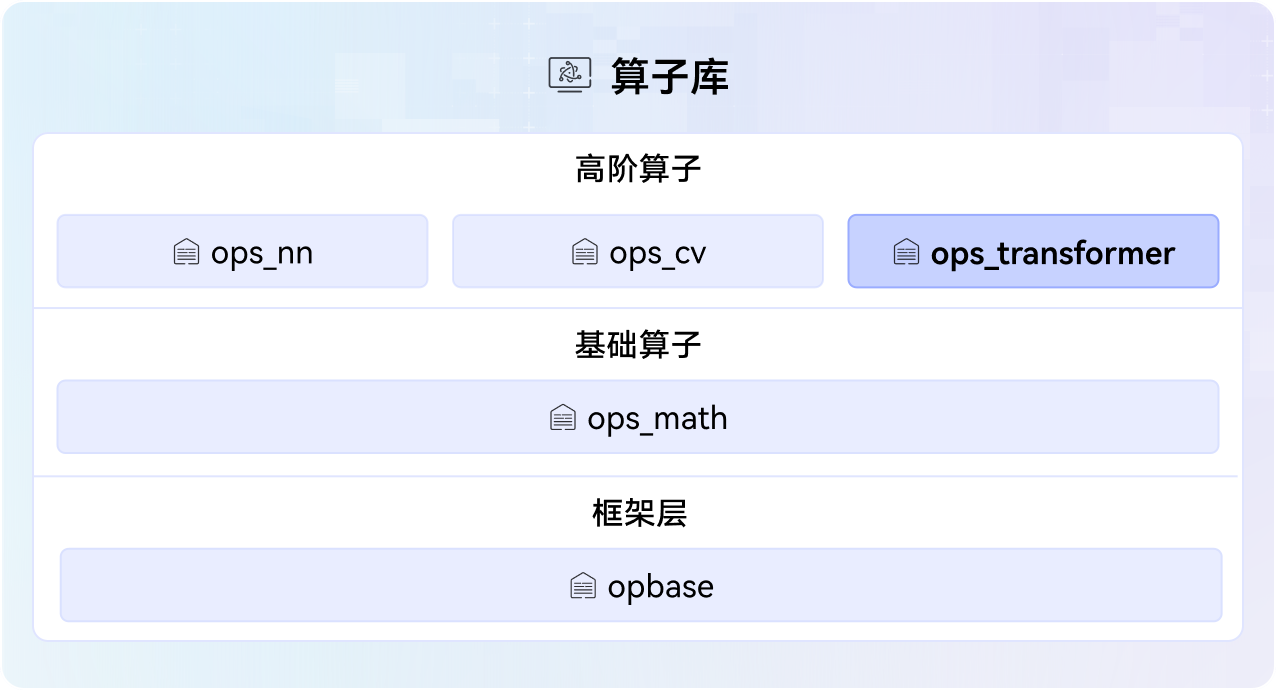
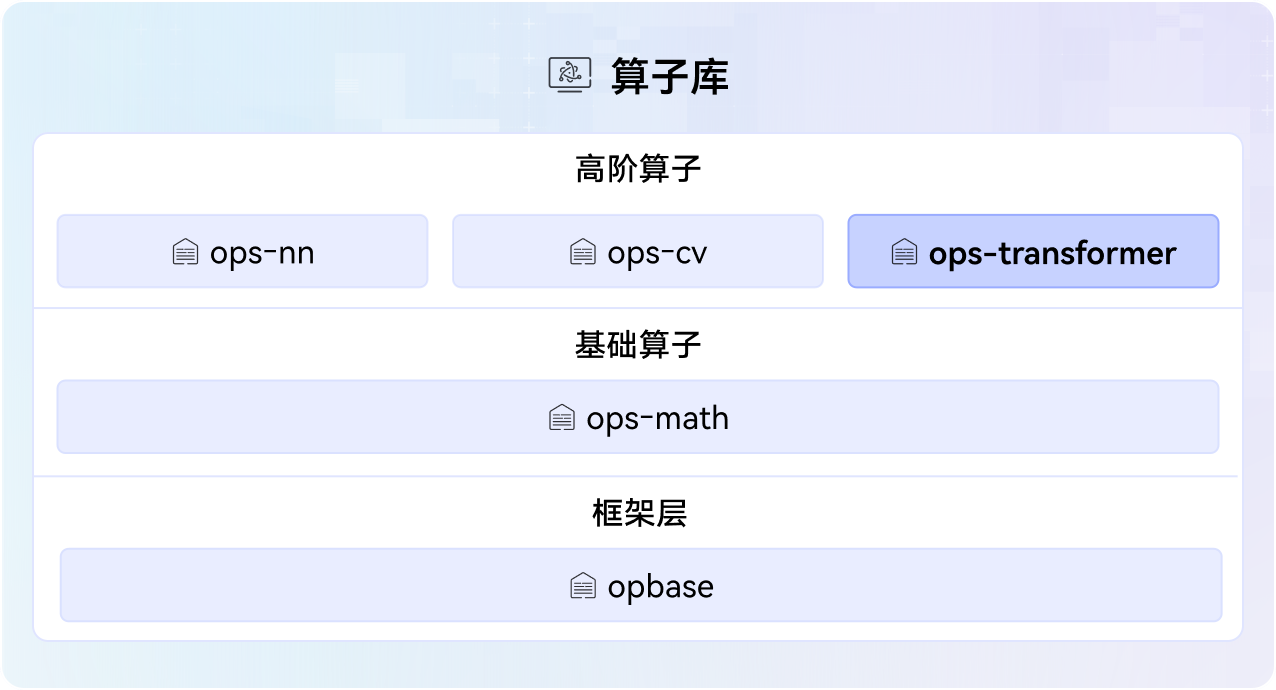
build参数补全
# message auto-generated for no-merge-commit merge:
merge buildcommand into master

build参数补全

Created-by: fengzixiao
Commit-by: feng-zixiao-1019
Merged-by: ascend-robot
Description: ## 描述
<!--在这里详细描述你的改动，包括改动的原因和所采取的方法。-->

## 关联的Issue
<!-- 如果这个PR是为了解决特定的Issue，请在这里提供Issue链接。例如：关联Issue #123-->
<!-- 如果这个PR是为了解决特定的问题单，请在这里描述问题单单号。-->

## 测试
<!--描述进行了哪些测试来验证你的改动。包括但不限于二级冒烟、算子泛化等。-->

## 文档更新
<!--如果这个PR包含文档的更新，请在这里指出。例如：更新了README.md文件。-->

## 类型标签
<!--  [x] 表示选中 -->
- [ ] Bug修复
- [ ] 新特性
- [ ] 性能优化
- [ ] 文档更新
- [ ] 其他，请描述：

See merge request: cann/ops-transformer-dev!528

diff --git a/docs/context/build.md b/docs/context/build.md
@@ -1,13 +1,13 @@
 # build参数说明
 
 ## 简介
-build.sh是本项目的构建脚本，默认在项目根目录下，其作用是将源代码自动编译、链接和配置，最终生成可执行文件、库文件或其它可供安装或直接运行的目标文件。具体来说，脚本中通过配置不同参数实现多种功能，包含构建多种目标库（如：libophost_math.so）、编译算子包、执行单元测试等。
+build.sh是本项目的构建脚本，默认在项目根目录下，作用是将源代码自动编译、链接和配置，最终生成可执行文件、库文件或其它可供安装或直接运行的目标文件。具体来说，脚本中通过配置不同参数实现多种功能，包含构建多种目标库（如：libophost_math.so）、编译算子包、执行单元测试等。
 
 
 ## 使用方法 
 1. **配置环境变量**
    
-   参考[快速入门 > 环境准备](./QuickStart.md#环境准备)完成环境变量配置。
+   参考[快速入门 > 环境准备](./quick_start.md#环境准备)完成环境变量配置。
    ```bash
    # 默认路径安装，以root用户为例
    source /usr/local/Ascend/ascend-toolkit/set_env.sh
@@ -16,7 +16,7 @@ build.sh是本项目的构建脚本，默认在项目根目录下，其作用是
 
    以编译算子包命令为例，样式如下，全量参数含义参见[参数说明](#参数说明)。
    ```bash
-   bash build.sh --package --soc=${soc_version} [--vendor_name=${vendor_name}] [--ops=${op1,op2,...}]
+   bash build.sh --pkg --soc=${soc_version} [--vendor_name=${vendor_name}] [--ops=${op1,op2,...}]
    ```
 
 ## 参数说明
@@ -25,4 +25,26 @@ build.sh支持多种功能，可通过如下命令查看所有功能参数，请
 bash build.sh --help
 ```
 
-详细参数介绍待补充。
+详细参数介绍见下表。
+
+| 参数名              | 可选/必选  | 参数说明                                                                         |
+|------------------|--------|------------------------------------------------------------------------------|
+| -j${n}           | 可选     | 指定编译线程数，${n}为具体线程数，默认值为8（如：-j8）；若线程数超过CPU核心数，会自动调整为CPU核心数。                   |
+| -v               | 可选     | 查看CMake编译配置信息。                                                               |
+| -O${n}           | 可选     | 指定编译优化级别，支持O0/O1/O2/O3（如：-O3），${n}为优化级别标识。                                   |
+| -u               | 可选     | 启用单元测试（UT）编译模式，编译所有UT目标。                                                     |
+| --help，-h        | 可选     | 打印脚本使用帮助信息。                                                                  |
+| --ops            | 可选     | 指定要编译的自定义算子，如：add，add_lora，多个算子用英文逗号“,”分隔，不可与--ophost、--opapi、--opgraph同时使用。 |
+| --soc            | 可选     | 指定编译目标NPU芯片型号，多个SoC用英文逗号“,”分隔。                                               |
+| --jit            | 可选     | 不编译算子的二进制文件。                                                                 |
+| --vendor_name    | 可选     | 指定自定义算子包的名称，默认值为custom。                                                      |
+| --debug          | 可选     | 启用调试模式。                                                                      |
+| --cov            | 可选     | 预留参数，开发者暂不需要关注。                                                              |
+| --noexec         | 可选     | 仅编译单元测试二进制文件，不自动执行编译后的UT可执行文件。                                               |
+| --opkernel       | 可选     | 编译二进制内核。                                                                     |
+| --pkg        | 可选     | 生成安装包，不可与-u（UT模式）或--ophost、--opapi、--opgraph同时使用。                            |
+| --make_clean     | 可选     | 执行基础清理操作（清理编译产物），执行后脚本退出。                                                    |
+| --ophost         | 可选     | 编译libophost_math.so库，不可与--pkg、--ops同时使用。                                     |
+| --opapi          | 可选     | 编译libopapi_math.so库，不可与--pkg、--ops同时使用。                                      |
+| --opgraph        | 可选     | 编译libopgraph_math.so库，不可与--pkg、--ops同时使用。                                    |
+| --run_example    | 可选     | 编译指定算子及模式的样例并执行编译后的可执行文件。                                                    |

diff --git a/docs/context/commercial_release.md b/docs/context/commercial_release.md
@@ -1,19 +1,19 @@
 # 商发版本说明
 
-若您安装了**商发版**（**8.3.RC1及之前**）CANN开发套件包`Ascend-cann-toolkit_${cann_version}_linux-${arch}.run`，需要对部分算子源码进行定制化修改，可通过修改对应开源项目的源码实现，具体操作如下：
+若您安装了**商发版**（**8.3.RC1及之前**）CANN开发套件包`Ascend-cann-toolkit_${cann_version}_linux-${arch}.run`，需要对部分算子源码进行修改，可通过修改对应的开源项目源码，具体操作如下：
 
 - \$\{cann\_version\}：表示CANN包版本号。
 - \$\{arch\}：表示CPU架构，如aarch64、x86_64。
 
 ## 获取并安装软件包
 
-如需修改某项目算子的源码，请确保已完成NPU驱动和固件、CANN开发套件包和`CANN-ops-base-${cann_version}−linux.${arch}.run`包安装。
+如需修改某项目算子的源码，请确保已完成NPU驱动和固件、CANN开发套件包和`cann-opbase_${cann_version}_linux-${arch}.run`包安装。
 
 1. 前提条件。
 
     参考《[CANN 软件安装指南](https://www.hiascend.com/document/redirect/CannCommunityInstSoftware)》，按要求完成NPU驱动和固件、`Ascend-cann-${package}_${cann_version}_linux-${arch}.run`软件包的获取和安装。
 
-2. 安装`CANN-ops-base-${cann_version}−linux.${arch}.run`包。
+2. 安装`cann-opbase_${cann_version}_linux-${arch}.run`包。
 
     ```bash
     # 1.ops-base项目源码下载，以master分支为例
@@ -21,8 +21,7 @@
     # 2.进入项目根目录编译生成run包，默认在根目录build_out目录下
     bash build.sh
     # 3.安装编译包，${install_path}需与toolkit包指定路径一致
-    ./CANN-ops-base-cannversion−linux.{cann_version}-linux.cann 
-    version−linux.{arch}.run --full --install-path=${install_path}/ascend-toolkit
+    ./cann-opbase_${cann_version}_linux-${arch}.run --full --install-path=${install_path}/ascend-toolkit
     ```
 
 ## 安装依赖
@@ -32,7 +31,7 @@
    - python >= 3.7.0
    - gcc >= 7.3.0
    - cmake >= 3.16.0
-   - pigz（可选，安装后可提升打包速度，建议版本 >= 2.8）
+   - pigz（可选，安装后可提升打包速度，建议版本 >= 2.4）
    - dos2unix
    - googletest（仅执行UT时依赖，建议版本 [release-1.11.0](https://github.com/google/googletest/releases/tag/release-1.11.0)）
 
@@ -68,23 +67,21 @@ source /usr/local/Ascend/ascend-toolkit/set_env.sh
     进入待修改项目的根目录，执行如下编译命令：
     
     ```bash
-    # 方式1：编译所有算子
-    bash build.sh
-    # 方式2：编译指定算子，如op1、op2
-    bash build.sh -n "op1;op2"
+    bash build.sh --pkg --soc=${soc_version} [--vendor_name=${vendor_name}] [--ops=${op_list}]
     ```
-    - -n（可选）：**仅编译部分算子设置**。"op1;op2"表示待编译的算子，多个算子之间使用英文分号";"分隔并使用引号。
+    - --soc：Atlas A2 训练系列产品/Atlas 800I A2 推理产品/A200I A2 Box 异构组件使用"ascend910b"（默认），Atlas A3 训练系列产品/Atlas A3 推理系列产品使用"ascend910_93"。
+    - --vendor_name（可选）：\$\{vendor\_name\}表示构建的自定义算子包名称，不指定时默认名为custom。
+    - --ops（可选）：\$\{op\_list\}表示待编译算子，全量算子参见[算子列表](./op_list.md)，不指定时默认编译所有算子。格式形如"abs,add_lora,..."，多算子之间用英文逗号","分隔。
     
-    若提示如下信息，则说明编译成功。
+    若提示如下信息，说明编译成功。
     ```bash
-    Self-extractable archive "CANN-ops-transformer-${cann_version}-linux.${arch}.run" successfully created.
+    Self-extractable archive "cann-ops-transformer-${vendor_name}_linux-${arch}.run" successfully created.
     ```
     编译成功后，run包存放于项目根目录的build_out目录下。
 
 2. **安装自定义算子包。**
     ```bash
-    source /usr/local/Ascend/ascend-toolkit/set_env.sh # 设置CANN开发套件包环境变量，以root用户默认路径为例，如已设置，则请忽略该操作
-    ./CANN-custom_ops-<cann_version>-linux-${arch}.run
+    ./cann-ops-${ops_project}-${vendor_name}-linux.${arch}.run
     ```
 
-    自定义算子包安装路径为`${ASCEND_HOME_PATH}/opp/vendors`，\$\{ASCEND\_HOME\_PATH\}需提前在环境变量配置，默认路径为`usr/local/Ascend`。
+    自定义算子包安装路径为`${ASCEND_HOME_PATH}/opp/vendors`，\$\{ASCEND\_HOME\_PATH\}表示CANN包安装路径，一般为\$\{install\_path\}/ascend-toolkit/latest，可通过环境变量配置。

diff --git a/docs/context/quick_start.md b/docs/context/quick_start.md
@@ -120,23 +120,27 @@
     进入项目根目录，执行如下编译命令：
 
     ```bash
-    bash build.sh --build package
+    bash build.sh --pkg [--jit] --soc=${soc_version}
     ```
+    - --jit（可选）：推荐设置，表示不编译算子的二进制文件。
+    - --soc：\$\{soc\_version\}表示NPU型号。Atlas A2 训练系列产品/Atlas 800I A2 推理产品/A200I A2 Box 异构组件使用"ascend910b"（默认），Atlas A3 训练系列产品/Atlas A3 推理系列产品使用"ascend910_93"。
 
     若提示如下信息，则说明编译成功。
 
     ```bash
-    Self-extractable archive "CANN-ops-transformer-${cann_version}-linux.${arch}.run" successfully created.
+    Self-extractable archive "cann-${soc_name}-ops-transformer_${cann_version}_linux.${arch}.run" successfully created.
     ```
 
-   编译成功后，run包存放于build_out目录下。
+    \$\{soc\_name\}表示NPU型号名称，即\$\{soc\_version\}删除“ascend”后剩余的内容。编译成功后，run包存放于build_out目录下。
+    
 
 2. **安装ops-transformer包**
    
     ```bash
-    ./cann-${soc_name}-ops-transformer-${cann_version}-linux.${arch}.run --full --install-path=${install_path}/ascend-toolkit
+    ./cann-${soc_name}-ops-transformer_${cann_version}_linux.${arch}.run --full --install-path=${install_path}/ascend-toolkit
     ```
-    ops-transformer包默认安装路径为：`/usr/local/Ascend`，如需自定义安装路径，可使用"--install-path"参数指定。
+    
+    \$\{install\_path\}：表示指定安装路径，需要与toolkit包安装在相同路径。
 
 ### 自定义算子包
 
@@ -145,23 +149,27 @@
     进入项目根目录，执行如下编译命令：
     
     ```bash
-    # 方式1：编译所有算子
-    bash build.sh
-    # 方式2：编译指定算子，如op1、op2
-    bash build.sh -n "op1;op2"
+    bash build.sh --pkg --soc=${soc_version} [--vendor_name=${vendor_name}] [--ops=${op_list}]
     ```
-    - -n（可选）：**仅编译部分算子设置**。"op1;op2"表示待编译的算子，多个算子之间使用英文分号";"分隔并使用引号。
+    - --soc：\$\{soc\_version\}表示NPU型号。Atlas A2 训练系列产品/Atlas 800I A2 推理产品/A200I A2 Box 异构组件使用"ascend910b"（默认），Atlas A3 训练系列产品/Atlas A3 推理系列产品使用"ascend910_93"。
+    - --vendor_name（可选）：\$\{vendor\_name\}表示构建的自定义算子包名称，不指定时默认名为custom。
+    - --ops（可选）：\$\{op\_list\}表示待编译算子，全量算子参见[算子列表](./op_list.md)，不指定时默认编译所有算子。格式形如"abs,add_lora,..."，多算子之间用英文逗号","分隔。
+    
+    若提示如下信息，说明编译成功。
+    ```bash
+    Self-extractable archive "cann-ops-transformer-${vendor_name}_linux-${arch}.run" successfully created.
+    ```
+    编译成功后，run包存放于项目根目录的build_out目录下。
 
 2. **安装自定义算子包**
    
     ```bash
-    source /usr/local/Ascend/ascend-toolkit/set_env.sh # 设置CANN开发套件包环境变量，以root用户默认路径为例，如已设置，则请忽略该操作
-    ./CANN-custom_ops-<cann_version>-linux-${arch}.run
+    ./cann-ops-math-${vendor_name}_linux-${arch}.run
     ```
     
-    自定义算子包安装路径为`${ASCEND_HOME_PATH}/opp/vendors`，\$\{ASCEND\_HOME\_PATH\}已在[环境准备](#环境准备)章节通过环境变量配置。
+    自定义算子包安装路径为`${ASCEND_HOME_PATH}/opp/vendors`，\$\{ASCEND\_HOME\_PATH\}表示CANN toolkit包安装路径，一般为\$\{install\_path\}/ascend-toolkit/latest，可通过环境变量配置。 
 
-## 本地验证 (功能待实现)
+## 本地验证
 
 通过根目录的build.sh脚本执行算子样例、UT用例等，build参数介绍参见[build参数说明](./build.md#参数说明)。
 

diff --git a/docs/README.md b/docs/README.md
@@ -32,16 +32,6 @@
 |[aclnnMoeGatingTopK](../moe/moe_gating_top_k/docs/aclnnMoeGatingTopK.md)|MoE计算中，对输入x做Sigmoid计算，对计算结果分组进行排序，最后根据分组排序的结果选取前k个专家。|
 |[aclnnPromptFlashAttentionV3](../attention/prompt_flash_attention/docs/aclnnPromptFlashAttentionV3.md)|实现全量推理场景的FlashAttention算子，支持sparse优化、actualSeqLengthsKv优化、int8量化功能、innerPrecise参数|
 |[aclnnIncreFlashAttentionV4](../attention/incre_flash_attention/docs/aclnnIncreFlashAttentionV4.md)|在全量推理场景的FlashAttention算子的基础上实现**增量推理**|
-## 图融合规则
-
-使用图方式描述网络时，可采用图融合提升算子性能。图融合是指[GE（Graph Engine）](https://www.hiascend.com/cann/graph-engine)按融合规则进行改图的过程，使用融合后的算子替换融合前的算子。图融合详细介绍请参见[《图融合和UB融合规则参考》](https://hiascend.com/document/redirect/CannCommunitygraphubfusionref)。
-
-本项目提供的所有融合规则清单如下：
-
-|  规则名  |    说明    |
-|---------|------------|
-|[MatmulxxxPass](../math/xxx/xx.md)|待补充。|
-
 
 ## 算子开发指南
 

diff --git a/README.md b/README.md
@@ -1,12 +1,12 @@
-# ops_transformer
+# ops-transformer
 
 ## Latest News🔥
 
-- [2025/09] ops_transformer项目首次上线。
+- [2025/09] ops-transformer项目首次上线。
 
 ## 🚀概述
 
-ops_transformer是[CANN](https://hiascend.com/software/cann) （Compute Architecture for Neural Networks）算子库中提供transformer类大模型计算的算子库，包括gmm类、moe类等，全量算子清单请参见[算子清单](docs/context/op_list.md)。
+ops-transformer是[CANN](https://hiascend.com/software/cann) （Compute Architecture for Neural Networks）算子库中提供transformer类大模型计算的算子库，包括gmm类、moe类等，全量算子清单请参见[算子清单](docs/context/op_list.md)。
 
 ![原理图](docs/figures/architecture.png)
 
